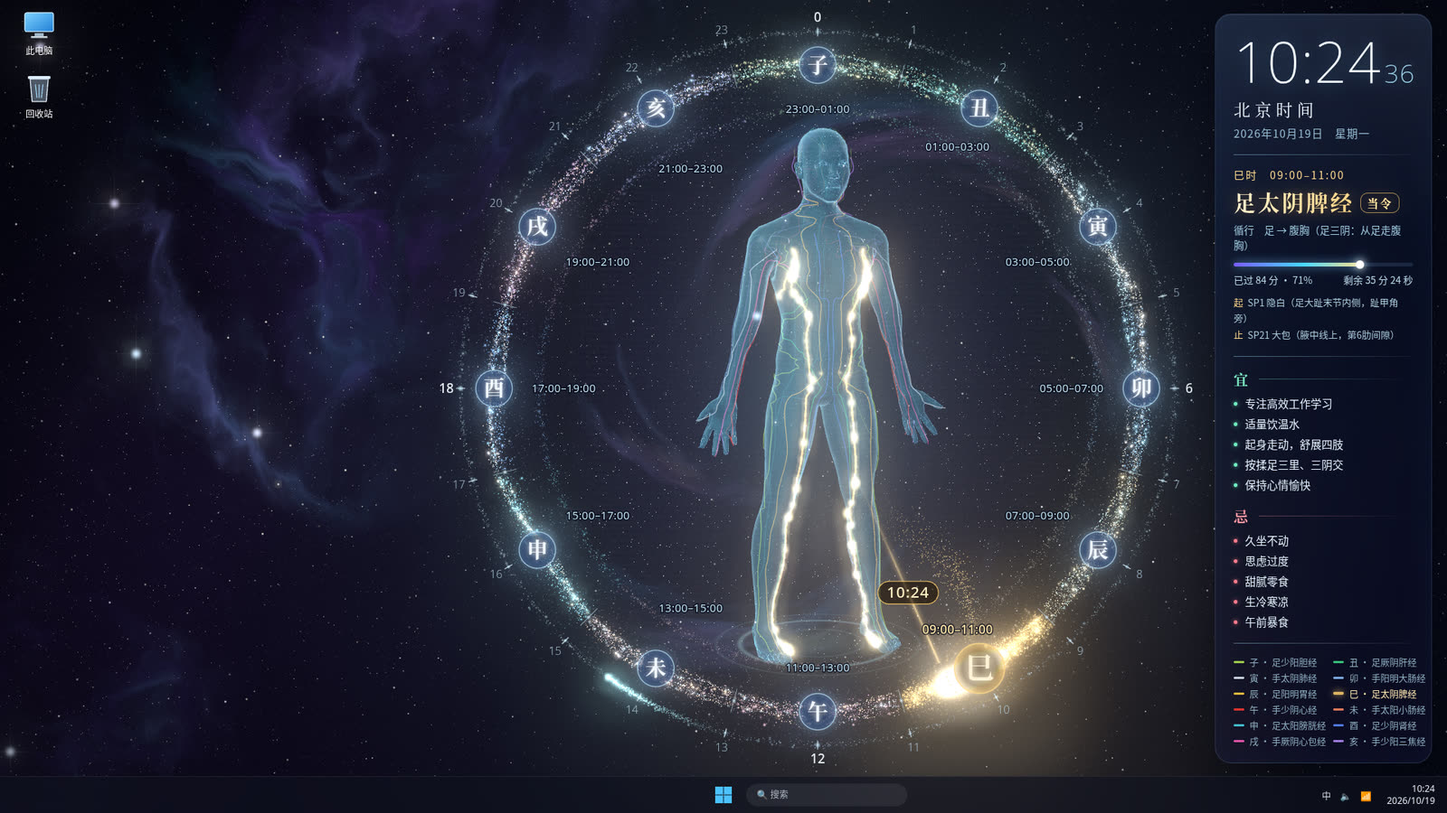
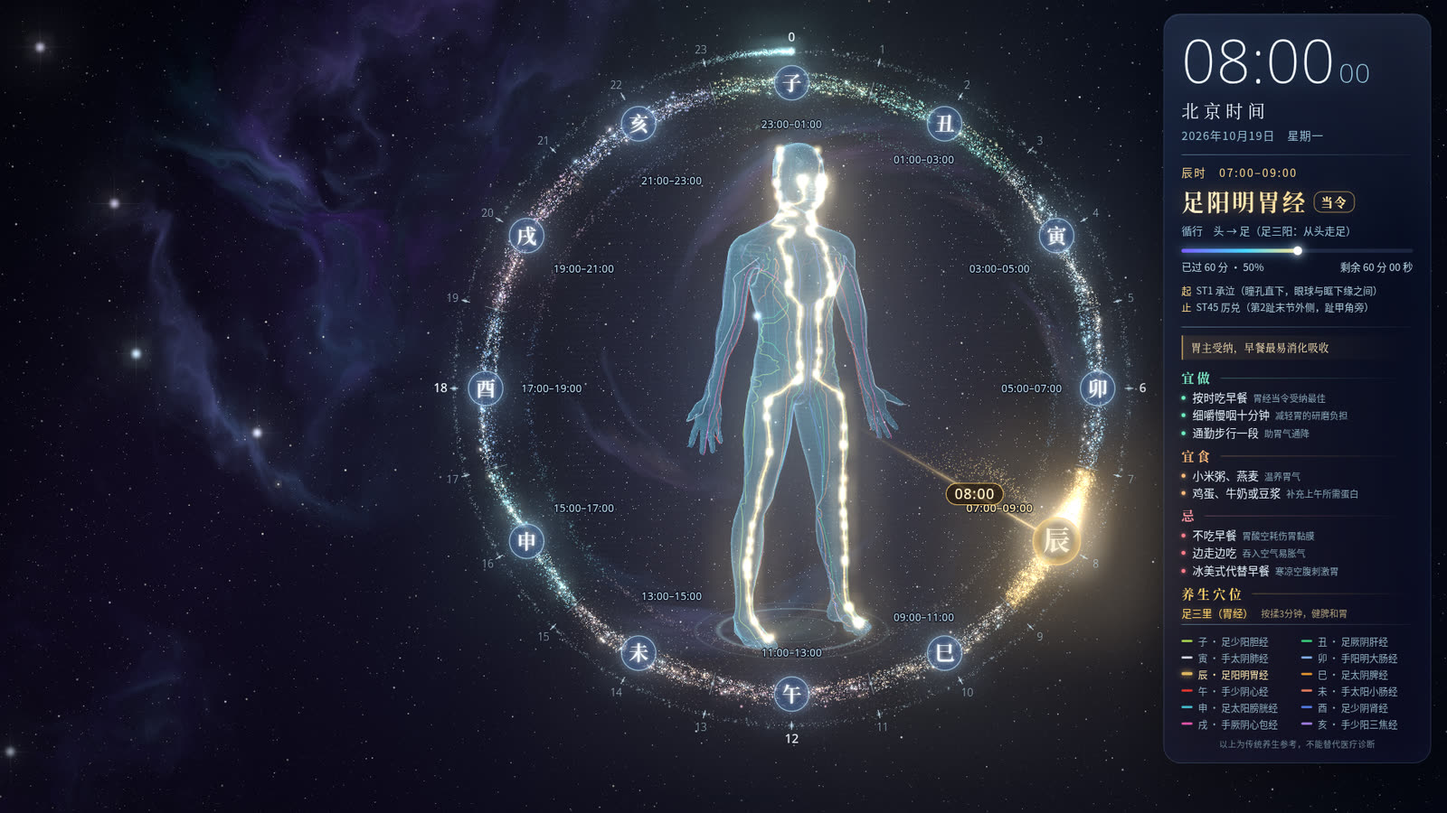
feat: 十二时辰宜忌改版 (v1.1.0)

diff --git a/web/index.html b/web/index.html
@@ -15,7 +15,7 @@
   .serif{font-family:"Ziwu Serif","Noto Serif CJK SC","Source Han Serif SC","Songti SC","SimSun",serif}
   .thin{font-family:"Ziwu Thin","Ziwu Sans","Noto Sans","Segoe UI Variable Display","Segoe UI","Helvetica Neue",sans-serif}
   /* ---------- 信息面板（玻璃拟态） ---------- */
-  #panel{position:absolute;right:22px;top:38px;transform-origin:top right;width:288px;padding:26px 24px 20px;box-sizing:border-box;
+  #panel{position:absolute;right:22px;top:38px;transform-origin:top right;width:340px;padding:22px 22px 16px;box-sizing:border-box;
     background:linear-gradient(160deg,rgba(40,70,120,.20),rgba(10,16,40,.30) 45%,rgba(30,20,60,.22));
     border:1px solid rgba(160,220,255,.16);border-radius:22px;backdrop-filter:blur(14px) saturate(130%);
     -webkit-backdrop-filter:blur(14px) saturate(130%);
@@ -27,7 +27,7 @@
   #clk small{font-size:34px;font-weight:200;color:#9fd8f2;margin-left:4px}
   #city{font-size:22px;letter-spacing:6px;margin-top:12px;color:#eef8ff}
   #date{font-size:14.5px;color:#93bcd4;margin-top:6px;letter-spacing:1px}
-  .hr{height:1px;background:linear-gradient(90deg,rgba(160,220,255,.45),rgba(160,220,255,.05));margin:18px 0 16px}
+  .hr{height:1px;background:linear-gradient(90deg,rgba(160,220,255,.45),rgba(160,220,255,.05));margin:14px 0 12px}
   #sc{font-size:14px;color:#ffd98a;letter-spacing:2px}
   #title{font-size:29px;font-weight:600;letter-spacing:3px;margin-top:6px;white-space:nowrap;
     background:linear-gradient(90deg,#fff3cf,#ffc861);-webkit-background-clip:text;background-clip:text;color:transparent;
@@ -43,13 +43,22 @@
   #remain{font-size:13px;color:#b9d9ea;display:flex;justify-content:space-between;font-variant-numeric:tabular-nums}
   .route{font-size:12.5px;line-height:1.7;color:#a9cadb;margin-top:10px}
   .route b{color:#ffd98a;font-weight:500;margin-right:6px}
-  h4{margin:0 0 6px;font-size:19px;font-weight:600;letter-spacing:4px;display:flex;align-items:center;gap:10px}
+  #gist{font-size:13px;line-height:1.5;color:#ffe7b8;margin:-2px 0 12px;padding:6px 10px;border-left:2px solid rgba(255,206,110,.7);
+    background:linear-gradient(90deg,rgba(255,200,100,.10),transparent);border-radius:0 8px 8px 0;letter-spacing:.5px}
+  h4{margin:0 0 4px;font-size:16px;font-weight:600;letter-spacing:4px;display:flex;align-items:center;gap:10px}
   h4:after{content:"";flex:1;height:1px;background:linear-gradient(90deg,currentColor,transparent);opacity:.35}
-  ul{margin:0 0 14px;padding:0;list-style:none;font-size:14.5px;line-height:1.86;color:#e3f3fb}
-  ul li{display:flex;align-items:center}
-  ul li:before{content:"";width:5px;height:5px;border-radius:50%;margin-right:10px;flex:none}
+  ul{margin:0 0 9px;padding:0;list-style:none;font-size:14px;line-height:1.3;color:#e3f3fb}
+  ul li{display:flex;align-items:baseline;margin-bottom:4px}
+  ul li:before{content:"";width:5px;height:5px;border-radius:50%;margin-right:9px;flex:none;transform:translateY(-3px)}
+  ul li span{display:block}
+  ul li small{font-size:11.5px;color:#86a6b9;margin-left:7px;letter-spacing:0}
   #yi li:before{background:#6ff0c0;box-shadow:0 0 6px #6ff0c0}
+  #eat li:before{background:#ffbb7a;box-shadow:0 0 6px #ffbb7a}
   #ji li:before{background:#ff7d8c;box-shadow:0 0 6px #ff7d8c}
+  #xue{font-size:13px;color:#e8d6a8;line-height:1.45;margin-top:2px}
+  #xue b{color:#ffd36a;font-weight:600;margin-right:6px;text-shadow:0 0 8px rgba(255,200,90,.5)}
+  #xue small{font-size:11.5px;color:#b0a07a;margin-left:4px}
+  #disc{font-size:10.5px;color:#6f8899;margin-top:10px;text-align:center;letter-spacing:.5px}
   #legend{display:grid;grid-template-columns:1fr 1fr;gap:4px 10px;font-size:12px;color:#8fb0c4}
   #legend span{display:flex;align-items:center;gap:7px;white-space:nowrap}
   #legend i{width:14px;height:3px;border-radius:2px;display:inline-block;opacity:.85}
@@ -78,10 +87,14 @@
   <div id="remain"><span id="el"></span><span id="rm"></span></div>
   <div class="route" id="route"></div>
   <div class="hr"></div>
-  <h4 class="serif" style="color:#7ff2c8">宜</h4><ul id="yi"></ul>
+  <div id="gist" class="serif"></div>
+  <h4 class="serif" style="color:#7ff2c8">宜做</h4><ul id="yi"></ul>
+  <h4 class="serif" style="color:#ffbb7a">宜食</h4><ul id="eat"></ul>
   <h4 class="serif" style="color:#ff97a2">忌</h4><ul id="ji"></ul>
+  <h4 class="serif" style="color:#ffd36a">养生穴位</h4><div id="xue"></div>
   <div class="hr" style="margin-top:4px"></div>
   <div id="legend"></div>
+  <div id="disc">以上为传统养生参考，不能替代医疗诊断</div>
 </div>
 <div id="fake">
   <div class="icon" style="top:14px"><svg width="44" height="40" viewBox="0 0 44 40"><defs><linearGradient id="pc" x1="0" y1="0" x2="1" y2="1"><stop offset="0" stop-color="#7fd3ff"/><stop offset="1" stop-color="#1f7fd6"/></linearGradient></defs><rect x="3" y="3" width="38" height="25" rx="2" fill="url(#pc)" stroke="#cfefff" stroke-width="1.2"/><rect x="16" y="30" width="12" height="4" fill="#9fb7c8"/><rect x="11" y="34" width="22" height="2.5" rx="1" fill="#c8d6e0"/></svg><br>此电脑</div>
@@ -128,8 +141,8 @@ function layout(){
   const top=IN.t, Hu=Math.max(200,H-IN.t-IN.b), right=W-IN.r, left=IN.l, Wu=Math.max(300,right-left);
   // 面板：按可用高度等比缩放，靠最右
   const pn=document.getElementById("panel"); pn.style.transform="none";
-  const ph=pn.offsetHeight||990, pw=288;
-  const ps=Math.max(.5,Math.min((Hu-36)/ph,(Wu*0.21)/pw,3));
+  const ph=pn.offsetHeight||990, pw=340;
+  const ps=Math.max(.5,Math.min((Hu-36)/ph,(Wu*0.235)/pw,3));
   pn.style.transform=`scale(${ps})`; pn.style.right=(IN.r+20*ps)+"px"; pn.style.top=(top+Math.max(10,(Hu-ph*ps)/2))+"px";
   const pLeft=right-20*ps-pw*ps;
   // 表盘+人体：位于左侧 ~30% 之后、面板之前的区域内，尽量大
@@ -628,18 +641,18 @@ function dialUpdate(T,hf,sf,tsec,idx){
 
 /* ===================== 宜 / 忌（每时辰 5 条） ===================== */
 const YJ=[
- {yi:["23点前入睡，养胆护阳","熄灯保持卧室暗而静","睡前温水泡脚","放下手机，平心静气","右侧卧，助气血归经"],ji:["熬夜加班","夜宵油腻","浓茶咖啡","剧烈运动","情绪激动"]},
- {yi:["深度熟睡，养肝藏血","保持环境安静","被褥温暖舒适","身心彻底放松","侧卧屈膝，气血归肝"],ji:["熬夜不眠","饮酒","动怒生气","进食宵夜","刷屏看手机"]},
- {yi:["熟睡养肺","注意保暖护胸背","室内空气流通","呼吸深长均匀","起夜动作宜缓"],ji:["受凉吹风","吸烟","过早剧烈晨练","空调直吹","惊醒焦虑"]},
- {yi:["起床饮一杯温水","定时排便","开窗换气，舒展筋骨","顺时针揉腹","叩齿梳头"],ji:["憋便","空腹喝冷饮","贪睡赖床","久蹲看手机","晨起即吸烟"]},
- {yi:["按时吃早餐","温热易消化","细嚼慢咽","粥蛋奶营养均衡","餐后静坐片刻"],ji:["不吃早餐","生冷油腻","边走边吃","暴饮暴食","餐后剧烈运动"]},
- {yi:["专注高效工作学习","适量饮温水","起身走动，舒展四肢","按揉足三里、三阴交","保持心情愉快"],ji:["久坐不动","思虑过度","甜腻零食","生冷寒凉","午前暴食"]},
- {yi:["小憩15–30分钟","静心养神","心平气和","午餐七分饱","闭目调息"],ji:["剧烈运动","大喜大悲","午睡过长","饭后立即平卧","浓茶咖啡"]},
- {yi:["饭后缓步","多饮温水","适量吃水果","揉肩活颈","轻松处理事务"],ji:["暴饮暴食","饭后即卧","辛辣刺激","久坐低头","贪食冷饮"]},
- {yi:["多补充水分","适当运动出汗","高效学习工作","及时排尿","敲打腿后侧"],ji:["憋尿","久坐不饮水","过食咸味","受寒着凉","疲劳硬撑"]},
- {yi:["晚餐清淡适量","温水泡脚","放松休息","揉搓腰眼","适量黑色食物"],ji:["过度劳累","晚餐过饱","房劳过度","过食咸味","大汗淋漓"]},
- {yi:["散步、慢跑","温水沐浴","与家人愉快交谈","听舒缓音乐","按揉内关穴"],ji:["情绪压抑","剧烈争执","饱食即卧","刺激性影视","熬夜加班"]},
- {yi:["静卧修养生息","准备入眠","冥想、深呼吸","温水泡脚","23点前入睡"],ji:["熬夜玩手机","饮浓茶咖啡","思虑过度","剧烈运动","进食夜宵"]},
+ {"gist": "胆主决断，阳气初生，宜眠养阳", "do": [{"t": "23点前躺下", "why": "子时入睡阳气易生"}, {"t": "卧室全暗", "why": "暗光助褪黑素分泌"}, {"t": "写下明日待办", "why": "放下心事好入眠"}], "eat": [{"t": "不再进食", "why": "让脾胃随胆经休整"}, {"t": "口渴少量温水", "why": "润燥而不扰睡眠"}], "ji": [{"t": "熬夜赶工", "why": "耗伤初生之阳气"}, {"t": "深夜高脂宵夜", "why": "加重胆汁代谢负担"}, {"t": "睡前刷短视频", "why": "蓝光兴奋难入睡"}], "xue": {"name": "风池（胆经）", "how": "睡前指腹揉按，缓解颈肩紧张"}},
+ {"gist": "人卧血归于肝，肝藏血主疏泄", "do": [{"t": "保持深睡", "why": "卧则血归肝得养"}, {"t": "被褥温度适中", "why": "过热过冷易惊醒"}, {"t": "醒来不看时间", "why": "避免焦虑再难入睡"}], "eat": [{"t": "不进食不饮酒", "why": "让肝专心藏血"}, {"t": "晚间已食清淡", "why": "减轻夜间代谢负担"}], "ji": [{"t": "此时仍未睡", "why": "血不归肝，晨起乏力"}, {"t": "饮酒助眠", "why": "酒精扰乱深睡结构"}, {"t": "夜里生闷气", "why": "肝气郁结伤情志"}], "xue": {"name": "太冲（肝经）", "how": "白天按揉，疏肝解郁"}},
+ {"gist": "肺朝百脉，气血重新输布全身", "do": [{"t": "安稳续睡", "why": "肺布气血需静养"}, {"t": "盖好肩背", "why": "肺恶寒，防受凉"}, {"t": "起夜动作放缓", "why": "防体位性头晕"}], "eat": [{"t": "不进食", "why": "此时消化系统未醒"}, {"t": "干燥可备加湿器", "why": "肺喜润恶燥"}], "ji": [{"t": "空调直吹", "why": "寒邪易犯肺卫"}, {"t": "摸黑早起剧练", "why": "气血未匀心肺负担大"}, {"t": "卧室闷不通风", "why": "空气污浊影响呼吸"}], "xue": {"name": "太渊（肺经）", "how": "白天轻按，助益肺气"}},
+ {"gist": "大肠主传导，排浊纳新之时", "do": [{"t": "醒后喝杯温水", "why": "唤醒肠道助排便"}, {"t": "定时如厕", "why": "养成规律排便习惯"}, {"t": "开窗伸展五分钟", "why": "舒展筋骨振奋阳气"}], "eat": [{"t": "温水或淡蜂蜜水", "why": "润肠通便"}, {"t": "一根香蕉或几颗枣", "why": "补充晨起能量"}], "ji": [{"t": "有便意强忍", "why": "浊气滞留易便秘"}, {"t": "如厕玩手机久蹲", "why": "易诱发痔疮"}, {"t": "空腹冰饮", "why": "寒凉刺激肠胃"}], "xue": {"name": "合谷（大肠经）", "how": "拇指按压，提神醒脑"}},
+ {"gist": "胃主受纳，早餐最易消化吸收", "do": [{"t": "按时吃早餐", "why": "胃经当令受纳最佳"}, {"t": "细嚼慢咽十分钟", "why": "减轻胃的研磨负担"}, {"t": "通勤步行一段", "why": "助胃气通降"}], "eat": [{"t": "小米粥、燕麦", "why": "温养胃气"}, {"t": "鸡蛋、牛奶或豆浆", "why": "补充上午所需蛋白"}], "ji": [{"t": "不吃早餐", "why": "胃酸空耗伤胃黏膜"}, {"t": "边走边吃", "why": "吞入空气易胀气"}, {"t": "冰美式代替早餐", "why": "寒凉空腹刺激胃"}], "xue": {"name": "足三里（胃经）", "how": "按揉3分钟，健脾和胃"}},
+ {"gist": "脾主运化，升清输布精微", "do": [{"t": "处理最难的任务", "why": "气血充盈头脑清"}, {"t": "每小时起身走动", "why": "久坐伤肉亦困脾"}, {"t": "减少无谓纠结", "why": "思虑过度易伤脾"}], "eat": [{"t": "温水小口慢饮", "why": "助脾运化不碍湿"}, {"t": "一小把坚果", "why": "稳定血糖抗饥饿"}], "ji": [{"t": "甜点奶茶加餐", "why": "甜腻助湿困脾"}, {"t": "冷饮冰水", "why": "寒湿伤脾阳"}, {"t": "坐姿瘫软不动", "why": "脾主四肢需活动"}], "xue": {"name": "三阴交（脾经）", "how": "按揉酸胀为度，健脾祛湿"}},
+ {"gist": "心主血脉藏神，阴阳交替宜静", "do": [{"t": "午睡15–30分钟", "why": "养心安神恢复精力"}, {"t": "午餐吃七分饱", "why": "饱食加重心脏负担"}, {"t": "闭目静坐片刻", "why": "宁心调息"}], "eat": [{"t": "红色蔬果如番茄", "why": "色红入心，清爽开胃"}, {"t": "莲子或百合", "why": "清心安神"}], "ji": [{"t": "午睡超过1小时", "why": "醒后昏沉更疲倦"}, {"t": "趴桌压迫胸口", "why": "影响呼吸与血液循环"}, {"t": "午间激烈争论", "why": "情绪起伏扰心神"}], "xue": {"name": "神门（心经）", "how": "轻揉腕横纹，宁心安神"}},
+ {"gist": "小肠受盛化物，泌别清浊", "do": [{"t": "餐后散步十分钟", "why": "助小肠消化吸收"}, {"t": "转动肩颈", "why": "小肠经循行肩胛"}, {"t": "整理文档邮件", "why": "下午易困做轻活"}], "eat": [{"t": "一份水果", "why": "补充维生素与水分"}, {"t": "温开水", "why": "助清浊分别"}], "ji": [{"t": "饭后立即躺下", "why": "影响消化易反酸"}, {"t": "长时间低头看屏", "why": "肩颈僵硬劳损"}, {"t": "辛辣重口零食", "why": "刺激肠道生内热"}], "xue": {"name": "后溪（小肠经）", "how": "握拳敲击，缓解颈肩僵硬"}},
+ {"gist": "膀胱藏津液，主气化排泄", "do": [{"t": "主动喝一杯水", "why": "助膀胱气化代谢"}, {"t": "有尿意及时去", "why": "久憋伤膀胱"}, {"t": "站立拉伸腿后侧", "why": "膀胱经行于背腿后"}], "eat": [{"t": "淡茶或白开水", "why": "补水利小便"}, {"t": "冬瓜、薏米类", "why": "清淡利水"}], "ji": [{"t": "忙到忘记喝水", "why": "代谢废物难排出"}, {"t": "久憋小便", "why": "易致尿路不适"}, {"t": "咸辣零食", "why": "过咸加重水液负担"}], "xue": {"name": "委中（膀胱经）", "how": "拍打腘窝，舒缓腰背"}},
+ {"gist": "肾藏精，为先天之本，宜收敛", "do": [{"t": "准点下班收工", "why": "避免劳累伤肾精"}, {"t": "搓热双手捂后腰", "why": "温养腰府"}, {"t": "放慢节奏缓冲", "why": "由动转静养精"}], "eat": [{"t": "晚餐清淡七分饱", "why": "减轻夜间负担"}, {"t": "黑豆、黑芝麻、山药", "why": "平和补肾"}], "ji": [{"t": "持续高强度加班", "why": "过劳耗伤肾精"}, {"t": "晚餐重盐重口", "why": "咸多伤肾"}, {"t": "大汗淋漓的运动", "why": "汗多耗津伤气"}], "xue": {"name": "太溪（肾经）", "how": "按揉内踝后，滋补肾阴"}},
+ {"gist": "心包代心受邪，喜乐出焉", "do": [{"t": "饭后散步半小时", "why": "舒畅气血"}, {"t": "陪家人聊天", "why": "心情愉悦护心包"}, {"t": "听音乐或读闲书", "why": "放松心神"}], "eat": [{"t": "一杯温热牛奶", "why": "晚间温和不刺激"}, {"t": "少量水果", "why": "清淡解腻"}], "ji": [{"t": "压抑情绪不倾诉", "why": "郁结伤及心包"}, {"t": "争吵冲突", "why": "情绪剧烈扰心神"}, {"t": "恐怖刺激影视", "why": "心跳加速难平静"}], "xue": {"name": "内关（心包经）", "how": "按揉腕上二寸，宽胸理气"}},
+ {"gist": "三焦通调水道，百脉休养生息", "do": [{"t": "洗个温水澡", "why": "放松肌肉助入睡"}, {"t": "调暗灯光放下手机", "why": "为入睡做准备"}, {"t": "冥想或腹式呼吸", "why": "平复一日思绪"}], "eat": [{"t": "停止进食", "why": "空腹入睡更安稳"}, {"t": "睡前少喝水", "why": "减少起夜"}], "ji": [{"t": "工作带到床上", "why": "大脑持续兴奋"}, {"t": "睡前大量饮水", "why": "夜尿扰睡眠"}, {"t": "激烈游戏或运动", "why": "交感神经亢奋"}], "xue": {"name": "外关（三焦经）", "how": "按揉腕背，舒筋通络"}}
 ];
 const legend=document.getElementById("legend");
 ORDER.forEach((k,i)=>legend.insertAdjacentHTML("beforeend",`<span data-k="${k}"><i style="background:${M[k].color}"></i>${BR[i]} · ${M[k].name}</span>`));
@@ -673,8 +686,12 @@ function frame(tsec){
     document.getElementById("title").innerHTML=`${m.name}<em>当令</em>`;
     document.getElementById("dir").textContent=`循行　${m.dir}`;
     document.getElementById("route").innerHTML=`<b>起</b>${m.start}<br><b>止</b>${m.end}`;
-    document.getElementById("yi").innerHTML=YJ[idx].yi.map(x=>`<li>${x}</li>`).join("");
-    document.getElementById("ji").innerHTML=YJ[idx].ji.map(x=>`<li>${x}</li>`).join("");
+    const Y=YJ[idx], li=a=>a.map(x=>`<li><span>${x.t}<small>${x.why}</small></span></li>`).join("");
+    document.getElementById("gist").textContent=Y.gist;
+    document.getElementById("yi").innerHTML=li(Y.do);
+    document.getElementById("eat").innerHTML=li(Y.eat);
+    document.getElementById("ji").innerHTML=li(Y.ji);
+    document.getElementById("xue").innerHTML=`<b>${Y.xue.name}</b><small>${Y.xue.how}</small>`;
     legend.querySelectorAll("span").forEach(s=>s.classList.toggle("on",s.dataset.k===key));
   }
   document.getElementById("clk").innerHTML=`${p2(T.h)}:${p2(T.m)}<small>${p2(Math.floor(sf))}</small>`;

diff --git a/README.md b/README.md
@@ -34,7 +34,7 @@
 - ✨ **当令经络金光流注**：按北京时间自动高亮当令经络，粒子沿正确方向流动，带行进脉冲和穴位呼吸光点。
 - 🩻 **深度感知 X 光**：转到背面时，被身体挡住的经络仍以较淡的光显示（当令经络约 45%，其余约 30%），路线始终能跟上。
 - 🌌 **粒子星环表盘**：约 3.2 万颗 GPU 粒子组成星尘带，十二时辰是星座式节点；当前时刻是一颗金色彗星，秒针是一颗青色火花。
-- 🪟 **玻璃拟态信息面板**：北京时间、日期、当令经络、起止穴与走向、本时辰进度，以及 5 条宜、5 条忌。
+- 🪟 **玻璃拟态信息面板**：北京时间、日期、当令经络、起止穴与走向、本时辰进度、**当令要义**、宜做 3 条 / 宜食 2 条 / 忌 3 条（每条附理由），以及当令经络上的**养生穴位**和免责提示（v1.1.0 起面板加宽到 340px）。
 - 🖥 **真·动态壁纸**：画面嵌在桌面图标之后，图标照常点击；Explorer 重启、分辨率变化、休眠唤醒后会自动恢复。
 - ⚡ **省心省电**：前台有全屏游戏/程序时自动暂停，用电池时自动降帧，最高 30 fps；画质分高/中/低三档。
 - 📐 **自适应布局**：支持 1366×768 到 4K、高 DPI 和带鱼屏；自动避开任务栏，左侧约 40% 留给桌面图标。
@@ -53,6 +53,15 @@
 </table>
 
 <details open>
+<summary><b>宜忌信息面板（v1.1.0 新版）</b></summary>
+
+| 辰时 08:00 · 足阳明胃经 | 子时 23:30 · 足少阳胆经 |
+|:--:|:--:|
+| <img src="docs/images/panel_0800.jpg" width="300" alt="辰时面板"/> | <img src="docs/images/panel_2330.jpg" width="300" alt="子时面板"/> |
+
+</details>
+
+<details open>
 <summary><b>不同时辰</b></summary>
 
 | 丑时 01:00–03:00 · 足厥阴肝经 | 卯时 05:00–07:00 · 手阳明大肠经 | 午时 11:00–13:00 · 手少阴心经 |
@@ -68,11 +77,15 @@
 
 <img src="docs/images/desktop.jpg" alt="桌面预览"/>
 
+<sub>1366×768 小屏：</sub>
+
+<img src="docs/images/desktop_1366.jpg" alt="1366×768 预览"/>
+
 </details>
 
 ## 📥 下载安装
 
-1. 前往 [**Releases**](https://github.com/jeson998/ziwu-meridian-clock/releases/latest) 下载 `ZiwuMeridianClock-v1.0.0-win-x64.zip`。
+1. 前往 [**Releases**](https://github.com/jeson998/ziwu-meridian-clock/releases/latest) 下载 `ZiwuMeridianClock-v1.1.0-win-x64.zip`。
 2. **完整解压**到一个固定文件夹（`ZiwuMeridianClock.exe` 和 `web\` 必须在同一目录），然后双击 exe。
 3. 任务栏右下角出现太极托盘图标，说明已经运行。
 
@@ -105,28 +118,28 @@
 
 ## 🕰 十二时辰对照表
 
-| 时辰 | 北京时间 | 当令经络 | 起止穴 | 走向 | 宜 | 忌 |
-|:--:|:--:|---|---|:--:|---|---|
-| **子** | 23:00–01:00 | 足少阳胆经 GB | GB1 瞳子髎 → GB44 足窍阴 | 头 → 足 | 23点前入睡，睡前泡脚 | 熬夜、夜宵 |
-| **丑** | 01:00–03:00 | 足厥阴肝经 LR | LR1 大敦 → LR14 期门 | 足 → 腹胸 | 深睡养肝，环境安静 | 饮酒、动怒、刷手机 |
-| **寅** | 03:00–05:00 | 手太阴肺经 LU | LU1 中府 → LU11 少商 | 胸 → 手 | 熟睡，保暖护胸背 | 受凉吹风、吸烟 |
-| **卯** | 05:00–07:00 | 手阳明大肠经 LI | LI1 商阳 → LI20 迎香 | 手 → 头 | 起床喝温水，定时排便 | 憋便、空腹冷饮 |
-| **辰** | 07:00–09:00 | 足阳明胃经 ST | ST1 承泣 → ST45 厉兑 | 头 → 足 | 按时吃温热早餐 | 不吃早餐、生冷油腻 |
-| **巳** | 09:00–11:00 | 足太阴脾经 SP | SP1 隐白 → SP21 大包 | 足 → 腹胸 | 专注工作，起身活动 | 久坐、思虑过度 |
-| **午** | 11:00–13:00 | 手少阴心经 HT | HT1 极泉 → HT9 少冲 | 胸 → 手 | 小憩 15–30 分钟 | 剧烈运动、大喜大悲 |
-| **未** | 13:00–15:00 | 手太阳小肠经 SI | SI1 少泽 → SI19 听宫 | 手 → 头 | 饭后缓步，多饮水 | 饭后即卧、辛辣 |
-| **申** | 15:00–17:00 | 足太阳膀胱经 BL | BL1 睛明 → BL67 至阴 | 头 → 足 | 多喝水，适当运动 | 憋尿、久坐不饮水 |
-| **酉** | 17:00–19:00 | 足少阴肾经 KI | KI1 涌泉 → KI27 俞府 | 足 → 腹胸 | 晚餐清淡，泡脚 | 过劳、过咸 |
-| **戌** | 19:00–21:00 | 手厥阴心包经 PC | PC1 天池 → PC9 中冲 | 胸 → 手 | 散步，愉快交谈 | 情绪压抑、饱食即卧 |
-| **亥** | 21:00–23:00 | 手少阳三焦经 TE | TE1 关冲 → TE23 丝竹空 | 手 → 头 | 静卧，准备入眠 | 熬夜玩手机、浓茶 |
+| 时辰 | 北京时间 | 当令经络 | 起止穴 | 走向 | 宜（首条） | 忌（首条） | 养生穴位 |
+|:--:|:--:|---|---|:--:|---|---|---|
+| **子** | 23:00–01:00 | 足少阳胆经 GB | GB1 瞳子髎 → GB44 足窍阴 | 头 → 足 | 23点前躺下 | 熬夜赶工 | 风池（胆经） |
+| **丑** | 01:00–03:00 | 足厥阴肝经 LR | LR1 大敦 → LR14 期门 | 足 → 腹胸 | 保持深睡 | 此时仍未睡 | 太冲（肝经） |
+| **寅** | 03:00–05:00 | 手太阴肺经 LU | LU1 中府 → LU11 少商 | 胸 → 手 | 安稳续睡 | 空调直吹 | 太渊（肺经） |
+| **卯** | 05:00–07:00 | 手阳明大肠经 LI | LI1 商阳 → LI20 迎香 | 手 → 头 | 醒后喝杯温水 | 有便意强忍 | 合谷（大肠经） |
+| **辰** | 07:00–09:00 | 足阳明胃经 ST | ST1 承泣 → ST45 厉兑 | 头 → 足 | 按时吃早餐 | 不吃早餐 | 足三里（胃经） |
+| **巳** | 09:00–11:00 | 足太阴脾经 SP | SP1 隐白 → SP21 大包 | 足 → 腹胸 | 处理最难的任务 | 甜点奶茶加餐 | 三阴交（脾经） |
+| **午** | 11:00–13:00 | 手少阴心经 HT | HT1 极泉 → HT9 少冲 | 胸 → 手 | 午睡15–30分钟 | 午睡超过1小时 | 神门（心经） |
+| **未** | 13:00–15:00 | 手太阳小肠经 SI | SI1 少泽 → SI19 听宫 | 手 → 头 | 餐后散步十分钟 | 饭后立即躺下 | 后溪（小肠经） |
+| **申** | 15:00–17:00 | 足太阳膀胱经 BL | BL1 睛明 → BL67 至阴 | 头 → 足 | 主动喝一杯水 | 忙到忘记喝水 | 委中（膀胱经） |
+| **酉** | 17:00–19:00 | 足少阴肾经 KI | KI1 涌泉 → KI27 俞府 | 足 → 腹胸 | 准点下班收工 | 持续高强度加班 | 太溪（肾经） |
+| **戌** | 19:00–21:00 | 手厥阴心包经 PC | PC1 天池 → PC9 中冲 | 胸 → 手 | 饭后散步半小时 | 压抑情绪不倾诉 | 内关（心包经） |
+| **亥** | 21:00–23:00 | 手少阳三焦经 TE | TE1 关冲 → TE23 丝竹空 | 手 → 头 | 洗个温水澡 | 工作带到床上 | 外关（三焦经） |
 
-> 起止穴、走向依据常见中医经络教材整理；宜/忌为程序内每个时辰 5 条建议的摘要。
+> 起止穴、走向依据常见中医经络教材整理。自 v1.1.0 起，每个时辰有“当令要义”，加上宜做 3 条、宜食 2 条、忌 3 条（每条附简短理由），以及一个位于当令经络上的养生穴位；12 个时辰之间内容不重复。上表只列首条。
 
 ## 🦎 Lively Wallpaper 备用方案
 
 exe 在你的电脑上有问题时，可以用免费开源的 [Lively Wallpaper](https://www.rocksdanister.com/lively/)（Microsoft Store 可安装）：
 
-1. 下载 `ZiwuMeridianClock-v1.0.0-web.zip`，或使用完整包里的 `web\` 文件夹。
+1. 下载 `ZiwuMeridianClock-v1.1.0-web.zip`，或使用完整包里的 `web\` 文件夹。
 2. 在 Lively 中点 **＋ 添加壁纸**，选择 `web\index.html`，或直接把 zip 拖进去（已附带 `LivelyInfo.json`）。
 3. 设为壁纸。可在地址后加参数：`?q=mid`（中画质）、`?spin=90`（慢速旋转）、`?safe=1`（安全模式）。
 
@@ -134,7 +147,7 @@ exe 在你的电脑上有问题时，可以用免费开源的 [Lively Wallpaper]
 
 ```bash
 # Linux / macOS 交叉编译（需 .NET SDK 8）
-scripts/build.sh            # 输出 dist/ZiwuMeridianClock-v1.0.0-win-x64.zip、-web.zip、SHA256SUMS.txt
+scripts/build.sh            # 输出 dist/ZiwuMeridianClock-v1.1.0-win-x64.zip、-web.zip、SHA256SUMS.txt
 ```
 
 ```powershell

diff --git a/README.en.md b/README.en.md
@@ -25,7 +25,7 @@
 - **12 meridians as 3D tubes** that follow textbook pathways. Each has its own colour and is mirrored left and right.
 - **The active meridian glows gold**, with particles flowing in its correct direction. When the body turns away, the hidden parts show through as a depth-aware x-ray.
 - **Particle star-ring dial** of about 32k GPU particles. The current time is a golden comet and the seconds are a cyan spark.
-- **Glassmorphism info panel** showing Beijing time, the active meridian, its start and end acupoints, the progress through the double-hour, and 5 do's and 5 don'ts.
+- **Glassmorphism info panel** showing Beijing time, the active meridian, its start and end acupoints, the progress through the double-hour, a key principle, 3 do's, 2 food tips and 3 don'ts (each with a short reason), and an acupoint on the ruling meridian (v1.1.0, panel widened to 340px).
 - **Real wallpaper layer**: the page is embedded behind the desktop icons using the WorkerW method, including on Win11 24H2. It recovers automatically after Explorer restarts, display changes, or sleep.
 - **Light on resources**: it pauses while a fullscreen app is in front and slows down on battery. There are 3 quality levels plus a safe mode.
 - **Fully offline**: a single self-contained exe; no separate .NET install is needed.
@@ -36,9 +36,21 @@
 |:--:|:--:|:--:|:--:|
 | <img src="docs/images/rot_0.jpg"/> | <img src="docs/images/rot_45.jpg"/> | <img src="docs/images/rot_90.jpg"/> | <img src="docs/images/rot_180.jpg"/> |
 
+### Info panel (new in v1.1.0)
+
+| 08:00 · Stomach | 23:30 · Gallbladder |
+|:--:|:--:|
+| <img src="docs/images/panel_0800.jpg" width="280"/> | <img src="docs/images/panel_2330.jpg" width="280"/> |
+
+## What's new in v1.1.0
+
+- The do's and don'ts for all 12 double-hours have been rewritten. Nothing repeats between periods, and every item relates to the ruling meridian.
+- New panel sections: a **key principle**, **3 do's**, **2 food tips** and **3 don'ts**, each with a short reason, plus a **health acupoint** that lies on the ruling meridian.
+- A disclaimer line at the bottom of the panel. The panel is wider, 340px instead of 288px.
+
 ## Install
 
-1. Download `ZiwuMeridianClock-v1.0.0-win-x64.zip` from [Releases](https://github.com/jeson998/ziwu-meridian-clock/releases/latest).
+1. Download `ZiwuMeridianClock-v1.1.0-win-x64.zip` from [Releases](https://github.com/jeson998/ziwu-meridian-clock/releases/latest).
 2. Unzip all of it (keep `web\` next to the exe) and run `ZiwuMeridianClock.exe`.
 3. Requirements:
    - Windows 10 1809+ or Windows 11, 64-bit;

diff --git a/CHANGELOG.md b/CHANGELOG.md
@@ -5,6 +5,20 @@ The format is based on [Keep a Changelog](https://keepachangelog.com/en/1.1.0/),
 
 ## [Unreleased]
 
+## [1.1.0] - 2026-10-20
+
+### 新增
+- 信息面板新增 **当令要义**：一句话说明当令经络的核心养生思路，例如“胃主受纳，早餐最易消化吸收”。
+- 宜忌分为三组：**宜做** 3 条、**宜食** 2 条、**忌** 3 条，每条都附一句简短理由。
+- 新增 **养生穴位**：每个时辰推荐 1 个位于当令经络上的穴位，并注明简单的按揉方法，例如辰时足三里、子时风池。
+- 面板底部新增免责提示：“以上为传统养生参考，不能替代医疗诊断”。
+
+### 变更
+- **十二时辰宜忌全部重写**：各时辰之间不再重复，内容都与当令经络的生理特点相关。
+- 信息面板宽度从 288px 加宽到 340px，并重新调整了排版和字号层级。
+- 版本号升级为 1.1.0（程序集、清单、LivelyInfo）。
+- README 更新了面板截图、桌面预览和十二时辰对照表。
+
 ## [1.0.0] - 2026-10-20
 
 First public release. 首个正式版。
@@ -55,5 +69,6 @@ First public release. 首个正式版。
 - `?safe=1` (or tray → 高级 → 安全模式) disables crease darkening, MSAA and bloom to help isolate GPU-specific problems.
 - `?nancheck=1` reports NaN/Inf pixel counts of the scene render target.
 
-[Unreleased]: https://github.com/jeson998/ziwu-meridian-clock/compare/v1.0.0...HEAD
+[Unreleased]: https://github.com/jeson998/ziwu-meridian-clock/compare/v1.1.0...HEAD
+[1.1.0]: https://github.com/jeson998/ziwu-meridian-clock/compare/v1.0.0...v1.1.0
 [1.0.0]: https://github.com/jeson998/ziwu-meridian-clock/releases/tag/v1.0.0

diff --git a/docs/release-notes/RELEASE_NOTES_v1.1.0.md b/docs/release-notes/RELEASE_NOTES_v1.1.0.md
@@ -1,0 +1,24 @@
+## 子午流注·经络全息钟 v1.1.0 — 十二时辰宜忌全新改版 🌿
+
+### ✨ 更新内容
+- **十二时辰宜忌全部重写**：12 个时辰内容互不重复，并紧扣当令经络。
+- 新增 **当令要义**：一句话点明这个时辰的养生核心。
+- 宜忌分为 **宜做 3 条 / 宜食 2 条 / 忌 3 条**，每条都附有理由。
+- 新增 **养生穴位**：每个时辰推荐 1 个位于当令经络上的穴位，并写明按揉方法。
+- 面板底部新增免责提示；信息面板从 288px **加宽到 340px**，阅读更舒适。
+
+### 📥 下载
+| 文件 | 说明 |
+|---|---|
+| `ZiwuMeridianClock-v1.1.0-win-x64.zip` | Windows 程序（解压后运行 `ZiwuMeridianClock.exe`；直接覆盖旧版文件夹即可） |
+| `ZiwuMeridianClock-v1.1.0-web.zip` | 纯网页版，可导入 Lively Wallpaper |
+| `SHA256SUMS.txt` | 校验值 |
+
+升级方法：先退出旧版（托盘 → 退出），再用新版文件覆盖。原有设置会保留。
+系统要求与 v1.0.0 相同：Windows 10 1809+ / 11 x64，需要 WebView2 Runtime。
+
+> 中医养生内容仅供参考，不构成医疗建议。
+
+---
+
+**English:** The info panel's do's and don'ts are rewritten for all 12 double-hours, with no repeats and each tied to the ruling meridian. New sections: a key principle, 3 do's, 2 food tips and 3 don'ts (each with a reason), and a health acupoint on the ruling meridian. A disclaimer line is added, and the panel is widened from 288px to 340px. Not medical advice.
